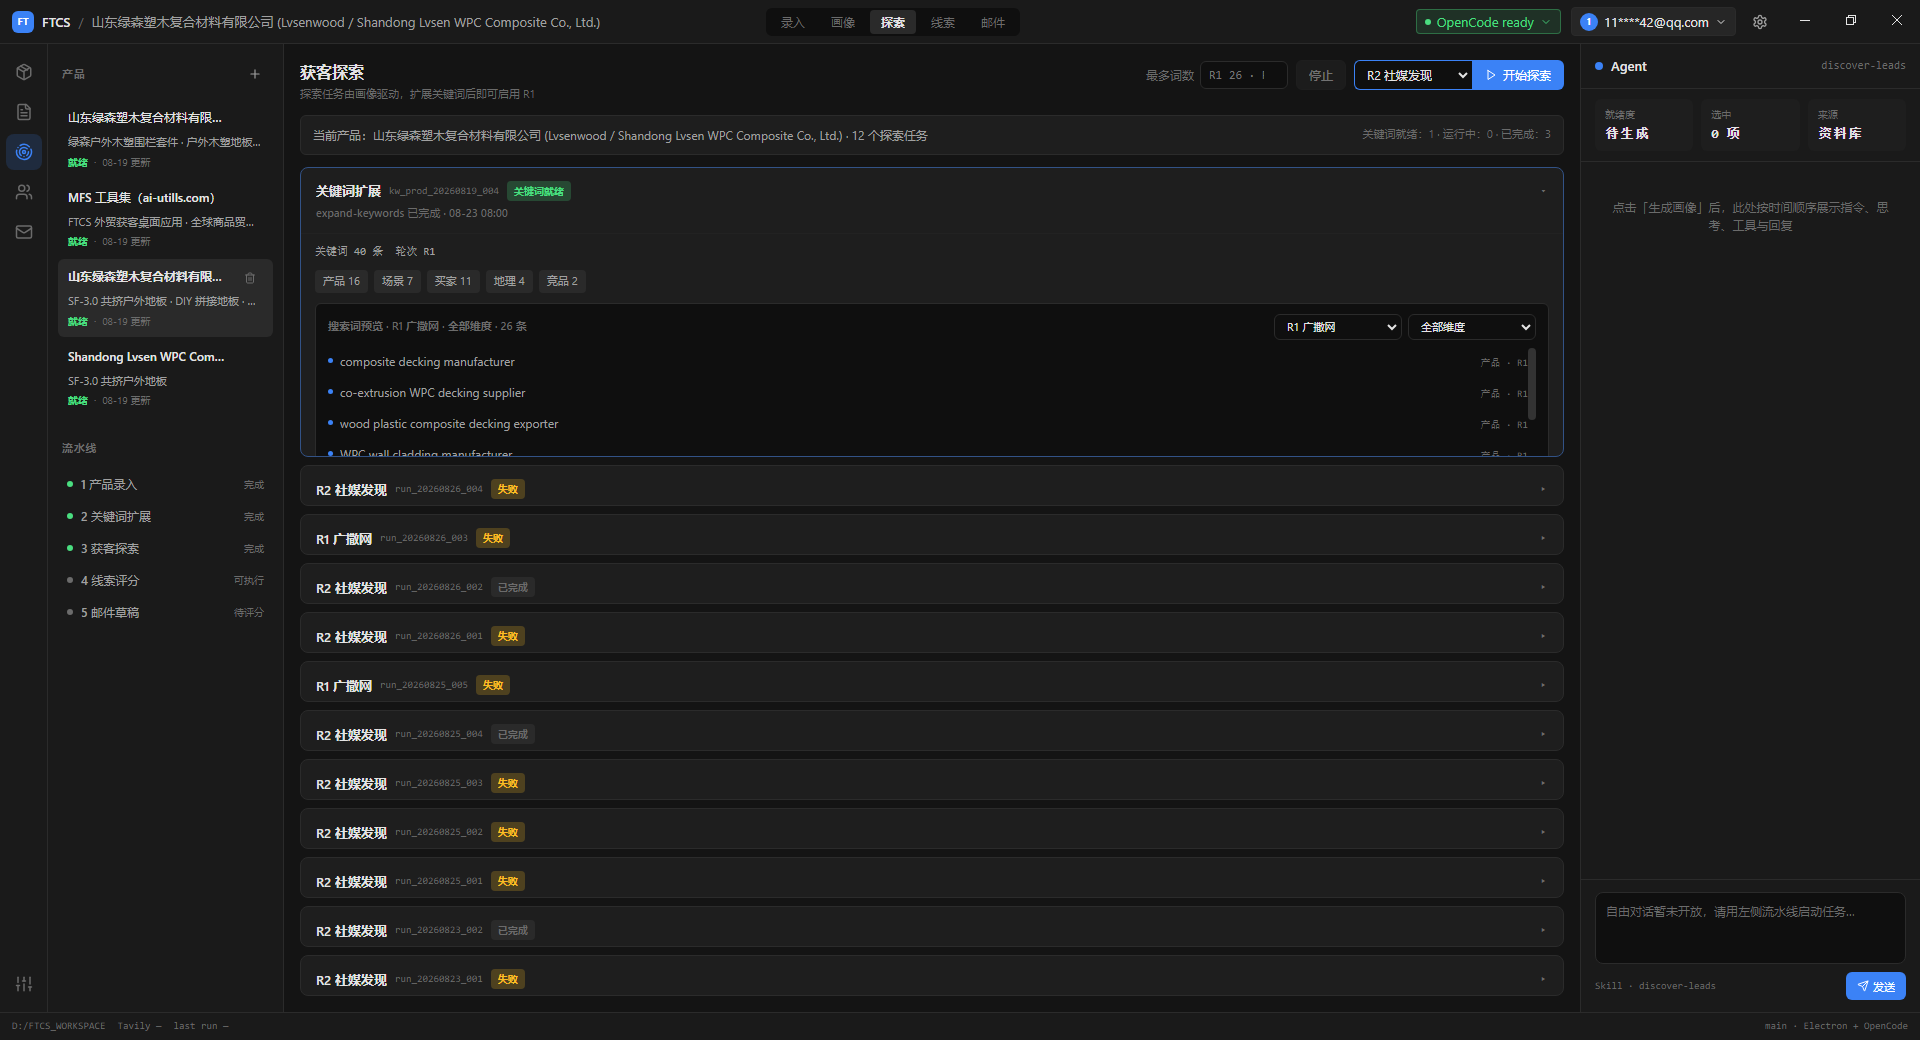
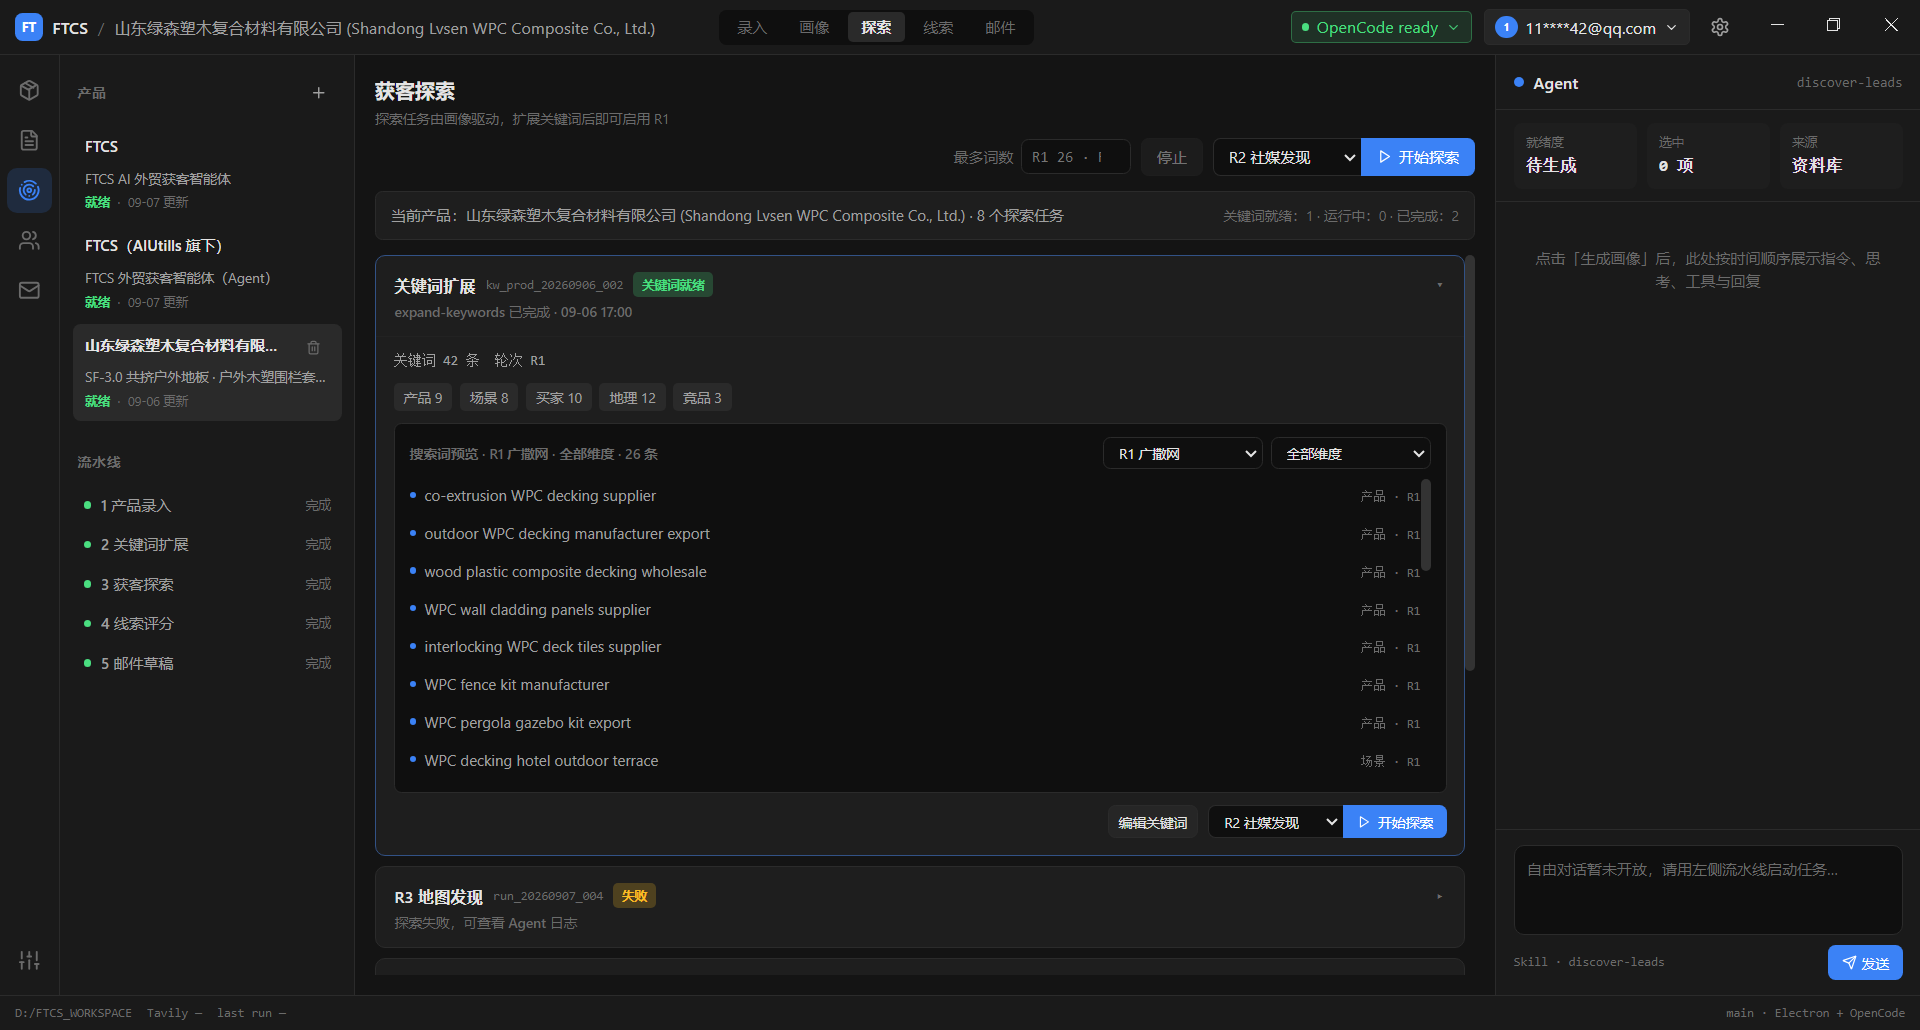
docs(website): 同步支持计划与帮助文档
下线已交付的 Hunter/验邮/开发信条目，调整 P0 优先与主题切换计划；补充 Hunter 申请说明并更新流程、FAQ 与首页文案。

diff --git a/website/src/config/support-plan.ts b/website/src/config/support-plan.ts
@@ -23,28 +23,12 @@ export const supportPlanPriorityLabels: Record<SupportPlanPriority, string> = {
 /** 按状态、优先级排序：开发中在前，同状态内 P0 → P2 */
 export const supportPlanItems: SupportPlanItem[] = [
   {
-    id: 'people-contact-profile',
-    title: 'Hunter 集成 · 补全联系人',
-    description:
-      '在已有公司线索上，按买家角色补全关键联系人（姓名、职位、来源与匹配理由），供开发信选用收件人。Hunter BYOK 集成（domain-search 等），默认人工触发；与「邮箱有效性验证」同一期交付。',
-    priority: 'P0',
-    status: 'developing',
-  },
-  {
-    id: 'email-verification',
-    title: '邮箱有效性验证',
-    description:
-      '对补全或收集到的联系人邮箱做有效性校验（Hunter BYOK email-verifier：valid / accept_all 等）。与「人员联系画像」同一期开发交付，不单独排期。',
-    priority: 'P0',
-    status: 'developing',
-  },
-  {
     id: 'task-done-notification',
     title: '任务完成 · Windows 通知',
     description:
-      'Agent 长任务（探索、评分、开发信起草等）完成后弹出 Windows 系统通知。用户反馈：任务耗时长通常不会一直盯着界面，缺少提醒时容易忘记回来查看结果。计划下一版交付。',
+      'Agent 长任务（探索、评分、开发信起草等）完成后弹出 Windows 系统通知。用户反馈：任务耗时长通常不会一直盯着界面，缺少提醒时容易忘记回来查看结果。',
     priority: 'P0',
-    status: 'planned',
+    status: 'developing',
   },
   {
     id: 'desktop-silent-update',
@@ -59,14 +43,22 @@ export const supportPlanItems: SupportPlanItem[] = [
     title: '线索 · 目标公司深度画像',
     description:
       '在线索页为每条公司线索生成结构化「企业画像」：商业模式与体量、主营产品与品牌、目标市场与客户、供应链与采购倾向、行业地位与优势、合作机会与跟进建议，并附可改稿的破冰话术。用户反馈：拿到线索后仍要自行调研才能判断值不值得跟；希望打开线索即可一眼看懂目标公司并着手联系，减少重复检索。',
-    priority: 'P1',
+    priority: 'P0',
     status: 'planned',
   },
   {
     id: 'explore-intensity',
     title: '探索强度 · 高 / 中 / 低',
     description:
-      '支持配置探索强度三档。用户反馈：单次探索收获的线索偏少。不同档位在扩展关键词数量、搜索引擎（R1/R2）单次结果条数、Google Maps（R3）结果集上限等方面分级，在耗时与覆盖面之间权衡。计划下一版交付。',
+      '支持配置探索强度三档。用户反馈：单次探索收获的线索偏少。不同档位在扩展关键词数量、搜索引擎（R1/R2）单次结果条数、Google Maps（R3）结果集上限等方面分级，在耗时与覆盖面之间权衡。',
+    priority: 'P0',
+    status: 'developing',
+  },
+  {
+    id: 'ui-theme-toggle',
+    title: '界面主题 · 暗黑 / 日间模式',
+    description:
+      '桌面端支持暗黑模式与日间模式切换，并记住用户选择。长时间审阅线索与开发信时，可按环境与偏好切换主题，减轻视觉疲劳。',
     priority: 'P0',
     status: 'planned',
   },
@@ -102,22 +94,6 @@ export const supportPlanItems: SupportPlanItem[] = [
     status: 'planned',
   },
   {
-    id: 'email-to-lead-navigation',
-    title: '开发信 · 跳回对应线索',
-    description:
-      '在开发信界面可一键跳转回线索页，并自动选中该草稿关联的线索，便于对照公司信息与联系人后再改稿。',
-    priority: 'P1',
-    status: 'planned',
-  },
-  {
-    id: 'email-draft-styles',
-    title: '开发信 · 多收件人与中英对照',
-    description:
-      '每条线索强制 1 封公司向开发信，并按 contacts 中个人邮箱各起草一封（1+N）；邮件页在公司向槽与 contacts∪people 间切换审阅，支持单人补起草；取消简洁/专业双变体；全局行文风格为用户自由描述（由大模型理解），并支持中文对照审阅。需求见仓库 docs/21-需求-开发信重构.md。',
-    priority: 'P0',
-    status: 'planned',
-  },
-  {
     id: 'similar-leads-explore',
     title: '相似线索探索',
     description:
@@ -138,7 +114,7 @@ export const supportPlanItems: SupportPlanItem[] = [
     title: '定时运行编排任务',
     description:
       '对已保存的任务编排方案支持按计划定时触发（如每周复搜），后台执行并在完成或异常时通知用户。依赖任务编排能力。',
-    priority: 'P2',
+    priority: 'P0',
     status: 'planned',
   },
   {

diff --git a/website/src/content/docs-index.ts b/website/src/content/docs-index.ts
@@ -25,14 +25,14 @@ export const docsIndex: DocMeta[] = [
     title: '推荐使用流程',
     seoTitle: '外贸获客标准路径 | 录入到开发信草稿',
     description:
-      'FTCS 外贸获客标准路径：产品录入、产品画像、广撒网与社媒发现、线索评分、开发信草稿审核。',
+      'FTCS 外贸获客标准路径：产品录入、产品画像、广撒网与社媒发现、线索评分、可选补全联系人、开发信多收件人与中文对照。',
   },
   {
     slug: 'faq',
     title: '常见问题',
     seoTitle: '外贸获客常见问题 | 智能体、数据与发信边界',
     description:
-      'FTCS 外贸获客智能体是什么、和其他获客方式或领英开发有何不同、数据是否上传、当前能否发信，以及安装与探索排障。',
+      'FTCS 外贸获客智能体是什么、和其他获客方式或领英开发有何不同、数据是否上传、Hunter 与开发信审阅，以及安装与探索排障。',
   },
   {
     slug: 'places-api-key',
@@ -40,5 +40,12 @@ export const docsIndex: DocMeta[] = [
     seoTitle: 'Google Places API Key 申请 | R3 地图发现',
     description:
       '在 Google Cloud Console 启用 Places API (New)、创建 API Key 并配置到 FTCS 桌面端，用于 R3 地图发现；含网络合规说明。',
+  },
+  {
+    slug: 'hunter-api-key',
+    title: '申请 Hunter API Key',
+    seoTitle: 'Hunter API Key 申请 | 补全联系人与验邮',
+    description:
+      '在 Hunter 创建 API Key 并配置到 FTCS 桌面端，用于线索页补全联系人与邮箱验证；可选扩展，不影响主路径。',
   },
 ]

diff --git a/website/src/views/HomeView.vue b/website/src/views/HomeView.vue
@@ -39,7 +39,7 @@ const steps = [
   },
   {
     title: '开发信草稿',
-    body: 'AI 为高意向线索生成短函与正式函变体。你改稿确认后保存在本机，发出节奏由你掌握。',
+    body: 'AI 为高意向线索起草公司向与个人收件人开发信，可按收件人审阅并生成中文对照。你改稿确认后保存在本机，发出节奏由你掌握。',
     src: withBase('screenshots/ftcs-邮件.png'),
     alt: '邮件草稿界面',
   },
@@ -56,7 +56,7 @@ const loopSteps = [
   },
   {
     title: '人审出信',
-    body: '切换话术变体并改稿，确认后落盘。每封信都经你过目，避免误触达。',
+    body: '按收件人改稿，需要时可看中文对照，确认后落盘。每封信都经你过目，避免误触达。',
   },
 ]
 </script>

diff --git a/website/vite.config.ts b/website/vite.config.ts
@@ -32,6 +32,7 @@ export default defineConfig({
         '/docs/workflow',
         '/docs/faq',
         '/docs/places-api-key',
+        '/docs/hunter-api-key',
       ]
     },
   } satisfies ViteSSGOptions,

diff --git a/website/content/docs/workflow.md b/website/content/docs/workflow.md
@@ -1,6 +1,6 @@
 # 推荐使用流程
 
-FTCS 外贸获客标准路径与桌面端侧栏一致，建议按顺序推进：**录入 → 画像 → 探索 → 评分 → 开发信**。
+FTCS 外贸获客标准路径与桌面端侧栏一致，建议按顺序推进：**录入 → 画像 → 探索 → 评分 → 开发信**。补全联系人（Hunter）为可选扩展，穿插在线索与开发信之间。
 
 ## 1. 产品录入
 
@@ -34,6 +34,7 @@ FTCS 外贸获客标准路径与桌面端侧栏一致，建议按顺序推进：
 
 - 未评分线索可人工编辑；匹配理由会标出广撒网或社媒发现  
 - 执行 **评分去重** 后按 tier（A/B/C）筛选  
+- 对已评分线索可点 **补全联系人**（可选）：按官网域名用 [Hunter](/docs/hunter-api-key) 查找相关联系人，并按设置决定是否验邮；未配置 Hunter Key 时按钮不可用，**不影响**探索与开发信主路径  
 - 对 high 线索 **写邮件**；已有草稿可点 **邮件** 跳转  
 - 本页可选 **任务方案**，把探索、评分、起草等步骤 **按顺序一键跑通**（也可保留单步按钮）  
 - 本页也可直接开始下一轮探索  
@@ -42,18 +43,21 @@ FTCS 外贸获客标准路径与桌面端侧栏一致，建议按顺序推进：
 
 在 **邮件** 页：
 
-- 切换短函 / 正式函变体并直接改稿  
-- **通过并保存**：定稿落盘，发出节奏由你掌握  
-- **驳回**：删除草稿并将线索状态回退  
+- 每条线索默认有一封 **公司向**草稿，并为有个人邮箱的联系人各起草一封（1+N）；顶部可切换收件人审阅，缺稿时可单人补起草  
+- **行文风格**在 **设置 → 开发信行文风格** 用自然语言描述（默认「专业，真诚」），影响之后的起草与重写，不自动改已有稿  
+- 可展开 **中文对照** 辅助审阅（外发仍用原文）；外文改稿后对照可能过期，可按需重新生成  
+- **查看线索**：一键回到线索页并选中当前公司，便于对照联系人后再改稿  
+- **通过并保存** / **驳回**：按当前收件人或整条线索操作；发出节奏由你掌握  
 
 先把信写对、存好，再按你自己的方式发出。
 
 ## 建议节奏
 
-先用少量搜索词跑通一次「广撒网 → 评分 → 1～2 封开发信草稿」，确认画像与话术质量，再扩大规模或补做社媒发现。
+先用少量搜索词跑通一次「广撒网 → 评分 → 1～2 封开发信草稿」，确认画像与话术质量，再扩大规模或补做社媒发现。需要具名收件人时，再为高意向线索配置 Hunter 并补全联系人。
 
 ## 通道与搜索提示
 
 - 使用 **官方通道** 时，开通后即可探索 R1/R2，无需再配置搜索 Key。  
 - 使用 **自定义通道** 时，请先在设置中填好模型与 Tavily Key，再启动探索。  
-- 若要 **R3 地图发现**，无论哪种通道都需自备 [Google Places API Key](/docs/places-api-key)，并在 **合法合规、可访问 Google 服务** 的网络环境下使用。
+- 若要 **R3 地图发现**，无论哪种通道都需自备 [Google Places API Key](/docs/places-api-key)，并在 **合法合规、可访问 Google 服务** 的网络环境下使用。  
+- **补全联系人** 为可选扩展，须自备 [Hunter API Key](/docs/hunter-api-key)；与模型 / 搜索通道独立，费用计入你的 Hunter 账号。

diff --git a/website/content/docs/hunter-api-key.md b/website/content/docs/hunter-api-key.md
@@ -1,0 +1,53 @@
+# 申请 Hunter API Key（补全联系人）
+
+FTCS **补全联系人**通过 [Hunter](https://hunter.io/) 按公司官网域名查找相关联系人，并可对邮箱做有效性验证。Key 由你在 Hunter 控制台自行申请（BYOK），粘贴到桌面端 **设置 → 集成 → Hunter**。
+
+- **不做补全联系人**：可不配置；画像、探索、评分与开发信主路径照常可用。  
+- **官方通道用户**：模型与搜索仍走官方；**Hunter 须自备 Key**（FTCS 不代调）。  
+- **费用**：按 Hunter 账号额度计费，计入你的 Hunter 账单。
+
+## 合规与账号（必读）
+
+请求由 **本机** 直连 `api.hunter.io`，**不经过** FTCS 服务器。请仅配置本人或团队**合法持有**的 Key，并遵守 [Hunter 服务条款](https://hunter.io/terms-of-service)。
+
+**Hunter 额度为账号级**：同一账号下多个 Key **共享**额度。可在设置中配置多个 Key 作故障切换，但无法靠多 Key 加倍额度。
+
+## 申请步骤
+
+### 1. 注册 / 登录 Hunter
+
+打开 [Hunter](https://hunter.io/)，注册或登录账号。
+
+### 2. 创建 API Key
+
+1. 打开 [API Keys](https://hunter.io/api-keys)（控制台 → API）。  
+2. 创建新的 API Key，复制保存（形如一长串字符）。
+
+> **安全提示**：请勿把 Key 提交到公开仓库或发给他人。若已泄露，请在 Hunter 控制台删除后重新创建。
+
+### 3. 粘贴到 FTCS
+
+1. 桌面端打开 **设置 → 集成 → Hunter · 补全联系人**。  
+2. 粘贴 Key（可添加多个槽位），按需勾选 **补全联系人时验证邮箱**（默认开启；关闭可少耗验邮额度）。  
+3. 点击 **保存配置**，可用 **测试连接** 确认 Key 可用。  
+4. 在 **OpenCode 运行时** 区域 **重启**，使 `hunter-api` MCP 加载新 Key。
+
+## 如何使用
+
+1. 在 **线索** 页打开已评分线索（需有可解析的官网域名）。  
+2. 点击 **补全联系人**；智能体按域名查找并写回联系人列表。  
+3. 可在抽屉中对单条联系人再点 **验证**（需已配置 Key）。  
+4. 之后在 **邮件** 页可为公司向与个人收件人分别审阅开发信。
+
+## 验证是否生效
+
+- 设置页 **测试连接** 成功。  
+- **OpenCode 运行时 → MCP 服务** 中 `hunter-api` 为 connected。  
+- 线索抽屉「补全联系人」可点，任务完成后出现联系人（而非引导去配置 Key）。
+
+## 相关链接
+
+- [Hunter API Keys](https://hunter.io/api-keys)  
+- [Hunter API 文档](https://hunter.io/api-documentation/v2)  
+- [常见问题 · Hunter](/docs/faq#hunter-api-key)  
+- [推荐使用流程 · 线索与开发信](/docs/workflow)

diff --git a/website/content/docs/getting-started.md b/website/content/docs/getting-started.md
@@ -26,8 +26,8 @@ FTCS 是跑在本机的外贸获客智能体。用桌面应用完成一次「产
 1. **录入**：按目录整理公司/产品资料（官网书签 + 文件），勾选后生成画像  
 2. **画像**：生成并核对产品画像  
 3. **探索**：扩展关键词后选择广撒网或社媒发现（界面选项为 R1 / R2）  
-4. **线索**：评分去重，查看高意向客户  
-5. **邮件**：为 high 线索起草开发信，改稿后「通过并保存」，发出节奏由你掌握
+4. **线索**：评分去重，查看高意向客户；可选配置 [Hunter](/docs/hunter-api-key) 后 **补全联系人**  
+5. **邮件**：为 high 线索起草开发信（公司向 + 个人收件人），按收件人改稿；需要时可生成中文对照。确认后「通过并保存」，发出节奏由你掌握
 
 推荐顺序见 [外贸获客标准路径](/docs/workflow)。
 
@@ -35,4 +35,5 @@ FTCS 是跑在本机的外贸获客智能体。用桌面应用完成一次「产
 
 - 遇到问题先查 [常见问题](/docs/faq)  
 - 安装细节见 [安装与前置](/docs/install)  
+- 补全联系人见 [申请 Hunter API Key](/docs/hunter-api-key)  
 - 版本差异见 [发布日志](/changelog)

diff --git a/website/content/docs/install.md b/website/content/docs/install.md
@@ -103,7 +103,8 @@ opencode --version
    - **官方通道（推荐）**：登录并开通后即可使用模型与搜索，无需再填搜索 Key  
    - **自定义**：填写自备模型 Key，并配置 Tavily 搜索 Key  
 3. 工作区默认在用户数据目录下的 `workspace`；可在设置中更改  
-4. **可选**：若计划使用 **R3 地图发现**，在设置 → 探索填写 [Google Places API Key](/docs/places-api-key)（须合法合规访问 Google）
+4. **可选**：若计划使用 **R3 地图发现**，在设置 → 探索填写 [Google Places API Key](/docs/places-api-key)（须合法合规访问 Google）  
+5. **可选**：若计划 **补全联系人**，在设置 → 集成填写 [Hunter API Key](/docs/hunter-api-key)
 
 模板会同步 skills、MCP 预打包产物与配置；你的 `data/` 与 `.env` 不会被模板覆盖。
 
